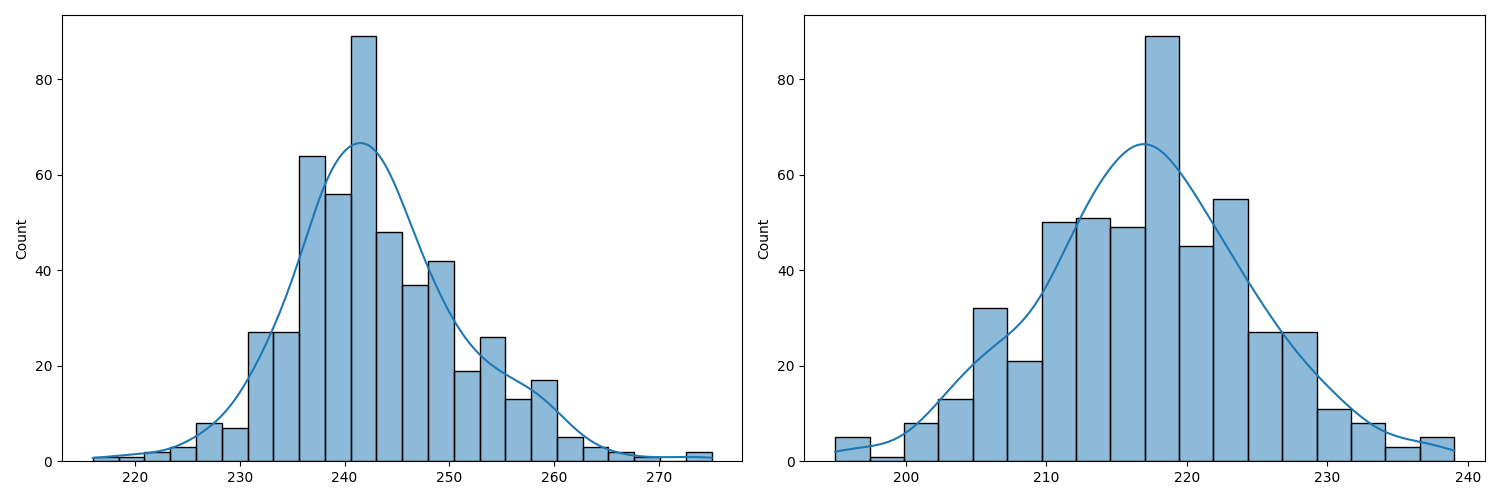
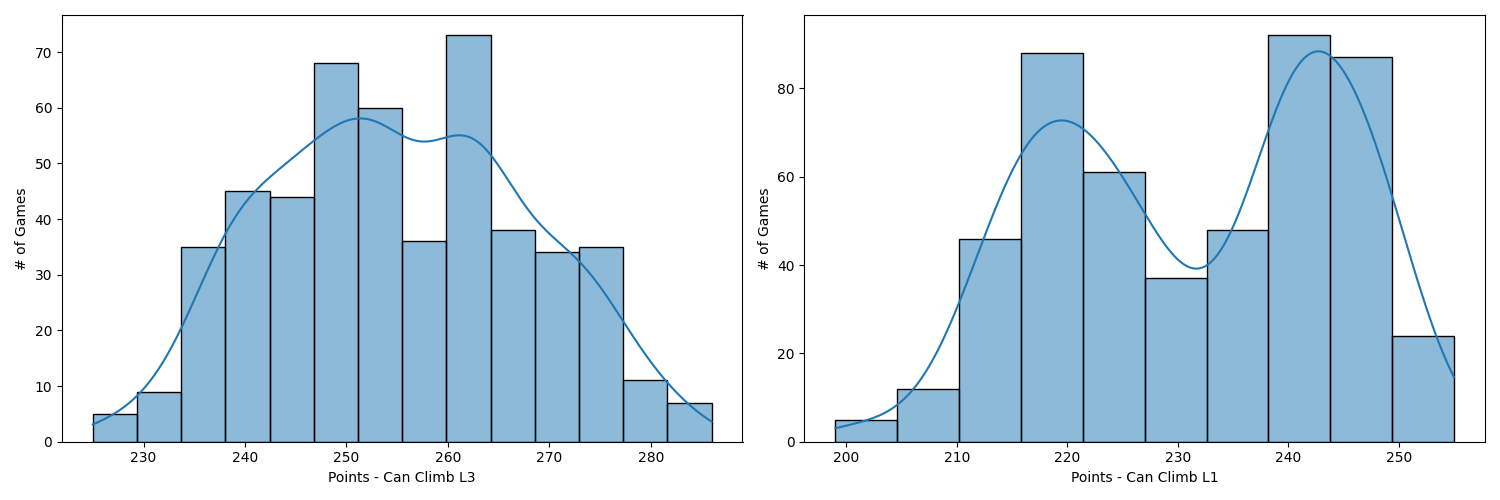
Idk, this was a week ago

diff --git a/main.py b/main.py
@@ -5,19 +5,22 @@ import random
 import copy
 import sys
 import seaborn as sns
-capacity = 8
+capacity = 20
 def simulate_game():
 
     redPointsLog = []
     bluePointsLog = []
     times = []
+    middleBallsLog = []
+    redBallsLog = []
+    blueBallsLog = []
 
     robots = [
         Robot(
     [fullAutoActions["Shoot"], pickupAction],
-    True,
+    False,
     [fullTeleopActions["Shoot"], fullTeleopActions["ShootToSide"], pickupAction],
-    [fullEndgameActions["Climb L1"], fullEndgameActions["Climb L2"], fullEndgameActions["Climb L3"]],
+    [fullEndgameActions["Nothing"]],
     capacity,
     True,
     False,
@@ -27,9 +30,9 @@ def simulate_game():
 ),
 Robot(
     [fullAutoActions["Shoot"], pickupAction],
-    True,
+    False,
     [fullTeleopActions["Shoot"], fullTeleopActions["ShootToSide"], pickupAction],
-    [fullEndgameActions["Climb L1"], fullEndgameActions["Climb L2"], fullEndgameActions["Climb L3"]],
+    [fullEndgameActions["Nothing"]],
     capacity,
     True,
     False,
@@ -190,14 +193,23 @@ Robot(
             #print(f"Current bot stores: {bot.storage}")
             action = bot.teleopSample(field)
 
+        times.append(bot.time)
+        actionTime = action.get_time(bot.storage)
+        if actionTime == -1:
+            continue
+        bot.time += actionTime
+
         if bot.alliance == Alliance.BLUE:
             bluePoints += action.points
         else:
             redPoints += action.points
         bluePointsLog.append(bluePoints)
         redPointsLog.append(redPoints)
-        times.append(bot.time)
-        bot.time += action.get_time(bot.storage)
+
+        middleBallsLog.append(field.fuel_middle)
+        redBallsLog.append(field.fuel_red)
+        blueBallsLog.append(field.fuel_blue)
+        
         #print(f"Field middle: {field.fuel_middle}, blue home: {field.fuel_blue}, red home: {field.fuel_red}")
         #print(f"blue: {bluePoints}, red: {redPoints}")
         #print("--------------------------------------")
@@ -236,27 +248,31 @@ Robot(
     #         else:
     #             print("Not enough time to complete action!")
     #             break
-    #return (bluePointsLog, redPointsLog, times)
-    return (bluePoints, redPoints)
+    return (middleBallsLog, blueBallsLog, redBallsLog, times)
+    #return (bluePoints, redPoints)
 
 results = simulate_game()
 
-# plt.plot(results[2], results[0], color="blue")
-# plt.plot(results[2], results[1], color="red")
+plt.plot(results[3], results[0], color="purple")
+plt.plot(results[3], results[1], color="blue")
+plt.plot(results[3], results[2], color="red")
 
-# plt.axvline(20)
-# plt.axvline(30)
-# plt.axvline(55)
-# plt.axvline(80)
-# plt.axvline(105)
-# plt.axvline(130)
+plt.xlabel("Time (s)")
+plt.ylabel("# of Fuel in Zone")
 
-# plt.savefig("mostrecentrun.png")
-# plt.show()
+plt.axvline(20)
+plt.axvline(30)
+plt.axvline(55)
+plt.axvline(80)
+plt.axvline(105)
+plt.axvline(130)
+plt.tight_layout()
+plt.savefig("mostrecentrun.png")
+plt.show()
 
-fig, axs = plt.subplots(1, 2, figsize=(15,5))
-print("Running...")
-results = [simulate_game() for _ in range(500)]
+# fig, axs = plt.subplots(1, 2, figsize=(15,5))
+# print("Running...")
+# results = [simulate_game() for _ in range(500)]
 
 # totals = []
 
@@ -286,10 +302,17 @@ results = [simulate_game() for _ in range(500)]
 # plt.ylabel("# of Wins")
 # plt.savefig("mostrecent.png")
 # plt.show()
-for i, (data, ax) in enumerate(zip(list(map(list, zip(*results))), axs)):
-    sns.histplot(data = data, kde=True, ax=ax)
-print("Done")
+# a = 0
+# for i, (data, ax) in enumerate(zip(list(map(list, zip(*results))), axs)):
+#     sns.histplot(data = data, kde=True, ax=ax)
+#     if a == 0:
+#         ax.set_xlabel("Points - Can Climb L3")
+#     else:
+#         ax.set_xlabel("Points - Can Climb L1")
+#     ax.set_ylabel("# of Games")
+#     a += 1
+# print("Done")
 
-plt.tight_layout()
-plt.savefig("mostrecent.png")
-plt.show()
+# plt.tight_layout()
+# plt.savefig("mostrecent.png")
+# plt.show()

diff --git a/rebuilt.py b/rebuilt.py
@@ -278,11 +278,11 @@ driveTimes = {
 }
 
 
-pickupAction = Action(0, 0.5, 0.1, Position.MIDDLE)
+pickupAction = Action(0, 0.25, 0.1, Position.MIDDLE)
 
 pickupDepot = Action(0, 0.2, 0.05, Position.DEPOT)
 
-startupShooter = Action(0, 1.5, 0.2, None)
+startupShooter = Action(0, 1, 0.2, None)
 
 fullAutoActions = {
     "Shoot": Action(1, 0.425, 0.05, Position.SCORE),
